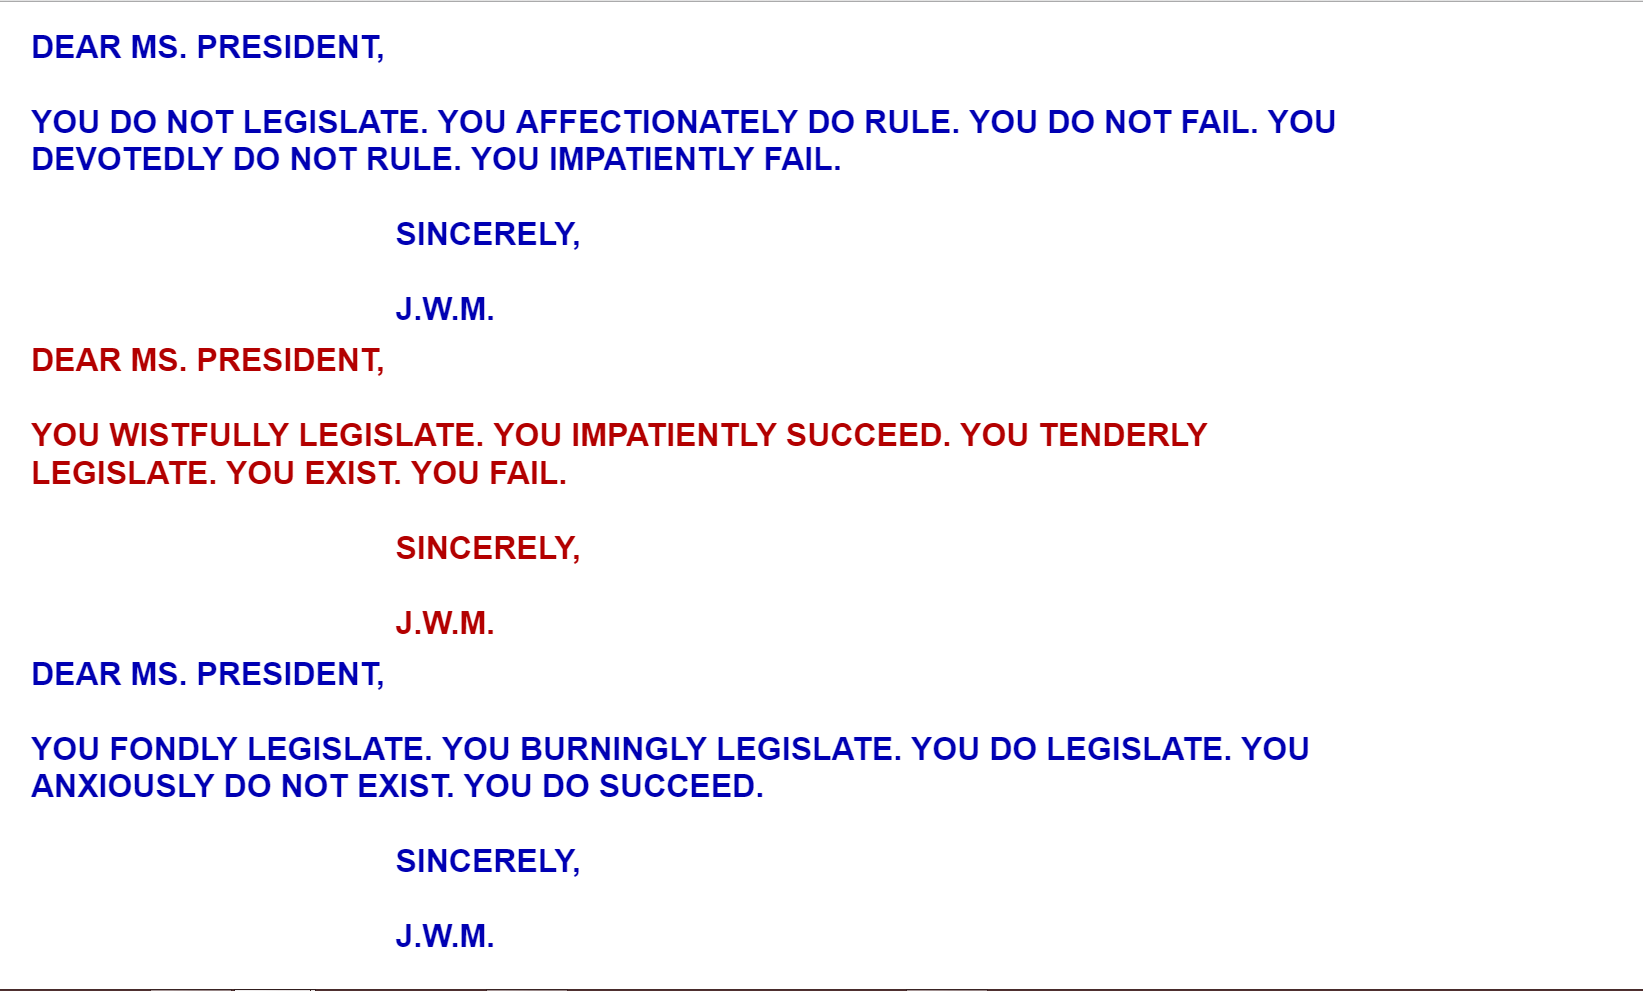
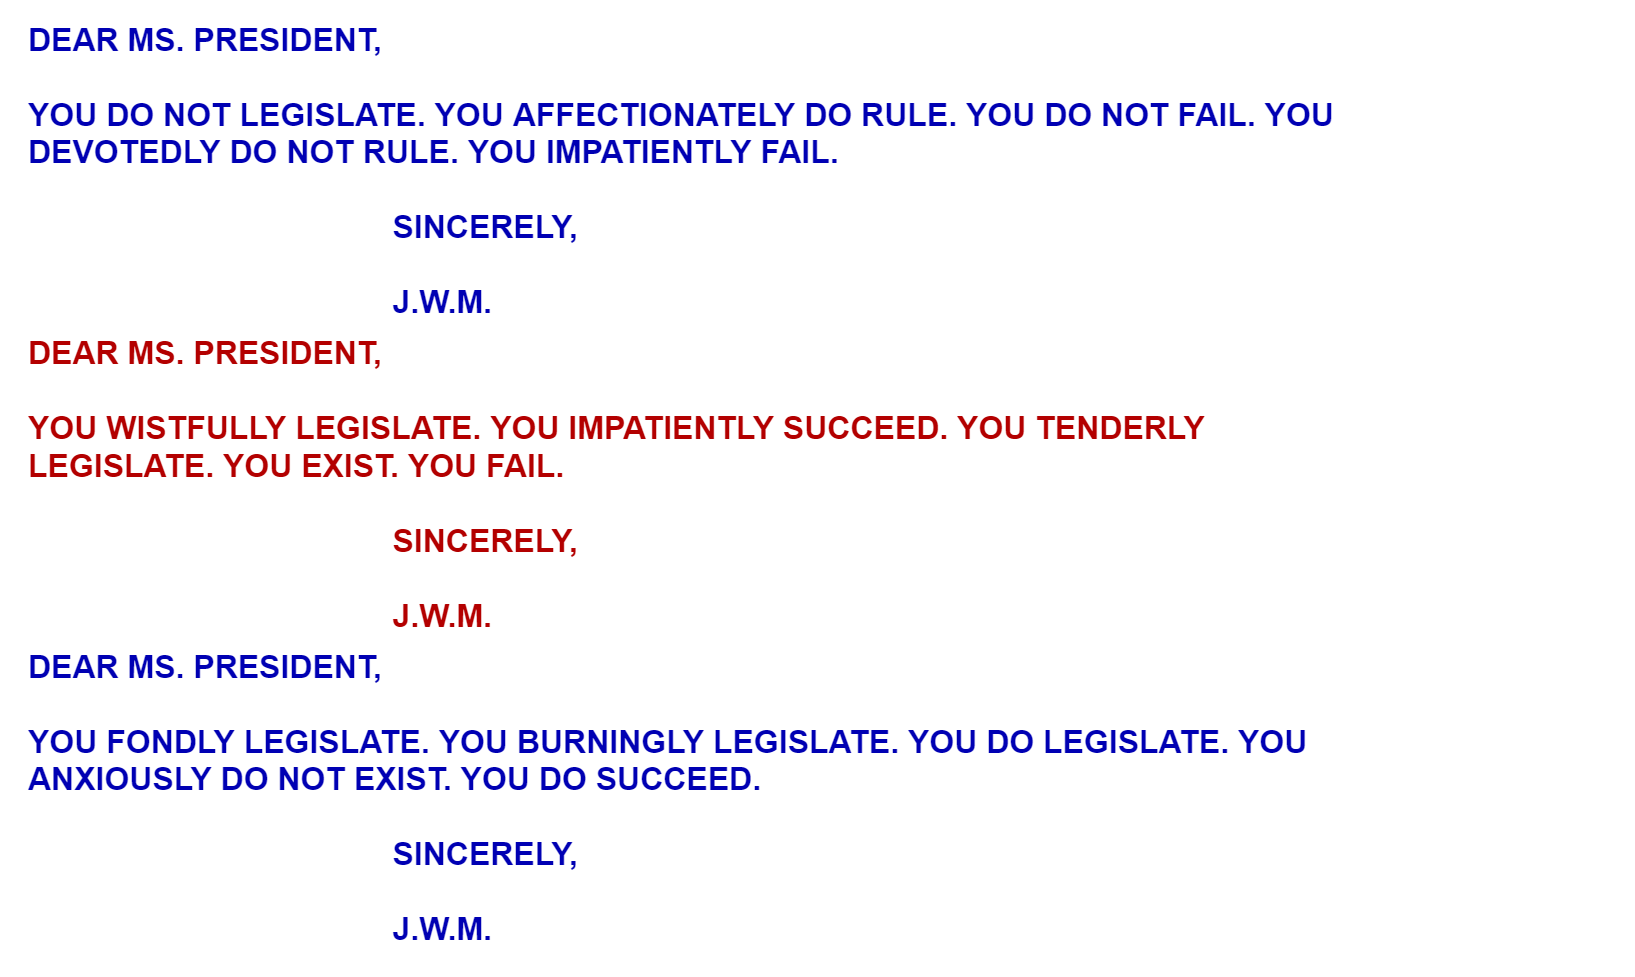
dear ms prez page done

diff --git a/files/msPresident.html b/files/msPresident.html
@@ -1,0 +1,167 @@
+
+<!DOCTYPE html PUBLIC "-//W3C//DTD XHTML 1.0 Strict//EN"
+    "http://www.w3.org/TR/xhtml1/DTD/xhtml1-strict.dtd">
+<html xmlns="http://www.w3.org/1999/xhtml" xml:lang="en" lang="en">
+<head>
+<meta http-equiv="content-type" content="text/html; charset=utf-8" />
+<!--
+Love Letters reimplementation
+copyright (c) 2014 Nick Montfort <nickm@nickm.com>
+based on a 1952 program by Christopher Strachey
+
+Permission to use, copy, modify, and/or distribute this software for any
+purpose with or without fee is hereby granted, provided that the above
+copyright notice and this permission notice appear in all copies.
+
+THE SOFTWARE IS PROVIDED "AS IS" AND THE AUTHOR DISCLAIMS ALL WARRANTIES
+WITH REGARD TO THIS SOFTWARE INCLUDING ALL IMPLIED WARRANTIES OF
+MERCHANTABILITY AND FITNESS. IN NO EVENT SHALL THE AUTHOR BE LIABLE FOR ANY
+SPECIAL, DIRECT, INDIRECT, OR CONSEQUENTIAL DAMAGES OR ANY DAMAGES
+WHATSOEVER RESULTING FROM LOSS OF USE, DATA OR PROFITS, WHETHER IN AN
+ACTION OF CONTRACT, NEGLIGENCE OR OTHER TORTIOUS ACTION, ARISING OUT OF OR
+IN CONNECTION WITH THE USE OR PERFORMANCE OF THIS SOFTWARE.
+
+Updated 10 March 2015 to correct the word lists. Sources are photographs
+of Christoper Stachey's notes in the Bodleian Library from J.R. Carpenter
+and table 14.1 in Noah Wardrip-Fruin's article "Digital Media Archaeology."
+-->
+<style type="text/css">
+/* <![CDATA[ */
+body {
+ background:#FFF;
+ color:#ccc;
+ margin:0 0 0 18pt;
+ font-family:Optima, sans-serif;
+ font-size:16pt;
+}
+
+a {
+ color:#117;
+ text-decoration:none;
+}
+
+#main {
+ padding-top:18px;
+ width:70%;
+}
+
+#main div {
+ font-weight:bold;
+ padding-bottom:9px;
+}
+
+/*#info {
+ top:0;
+ right:0;
+ bottom:0;
+ position:absolute;
+ height:100%;
+ width:25%;
+ color:#333;
+ background:#999;
+ margin-left:6px;
+ border-left:thin #000 solid;
+ border-bottom:thin #000 solid;
+ padding:9px;
+ font-size:80%
+}*/
+
+/* ]]> */
+</style>
+<script type="text/javascript">
+
+var t = 0,
+
+colors = ['#b30000', '#0000b3'],
+
+first = ['DEAR'],
+
+second = ['MS. PRESIDENT,'],
+
+nouns = ['YOU'],
+
+adverbs = ['AFFECTIONATELY', 'ANXIOUSLY', 'ARDENTLY', 'AVIDLY', 'BEAUTIFULLY', 'BREATHLESSLY', 'BURNINGLY', 'COVETOUSLY', 'CURIOUSLY', 'DEVOTEDLY', 'EAGERLY', 'FERVENTLY', 'FONDLY', 'IMPATIENTLY', 'KEENLY', 'LOVINGLY', 'PASSIONATELY', 'SEDUCTIVELY', 'TENDERLY', 'WINNINGLY', 'WISTFULLY'],
+
+actions = ['', 'DO NOT', 'DO'],
+
+verbs = ['EXIST', 'LEGISLATE', 'RULE', 'SUCCEED', 'FAIL'];
+
+function rand_range(maximum) {
+    "use strict";
+    return Math.floor(Math.random() * (maximum + 1));
+}
+
+function choose(array) {
+    "use strict";
+    return array[rand_range(array.length - 1)];
+}
+
+function maybe(words) {
+    "use strict";
+    if (Math.random() > 0.3) {
+        return ' ' + choose(words);
+    }
+    return '';
+}
+
+function longer() {
+    "use strict";
+    return choose(nouns) + maybe(adverbs) + ' ' + choose(actions) + ' ' + choose(verbs) + '. ';
+}
+
+function shorter() {
+    "use strict";
+    return choose(nouns) + ' ' + choose(actions) + ' ' + choose(verbs) + '. ';
+}
+
+function letter() {
+    "use strict";
+    var i, type, you_are = false, text = '';
+    text = text + choose(first) + ' ' + choose(second) + '<br /><br />';
+
+    for (i = 0; i < 5; i = i + 1) {
+        type = choose(['longer', 'shorter']);
+        if (type === 'longer') {
+            text = text + longer();
+        } else {
+            if (you_are) {
+                text = text.slice(0, -1) + shorter();
+            } else {
+                text = text + shorter();
+            }
+        }
+    }
+
+    text = text + '<br /><br />&nbsp;&nbsp;&nbsp;&nbsp;&nbsp;&nbsp;&nbsp;&nbsp;&nbsp;&nbsp;&nbsp;&nbsp;&nbsp;&nbsp;&nbsp;&nbsp;&nbsp;&nbsp;&nbsp;&nbsp;&nbsp;&nbsp;&nbsp;&nbsp;&nbsp;&nbsp;&nbsp;&nbsp;&nbsp;&nbsp;&nbsp;&nbsp;&nbsp;&nbsp;&nbsp;&nbsp;&nbsp;&nbsp;&nbsp;&nbsp;&nbsp;' + 'SINCERELY,' + '<br /><br />' + '&nbsp;&nbsp;&nbsp;&nbsp;&nbsp;&nbsp;&nbsp;&nbsp;&nbsp;&nbsp;&nbsp;&nbsp;&nbsp;&nbsp;&nbsp;&nbsp;&nbsp;&nbsp;&nbsp;&nbsp;&nbsp;&nbsp;&nbsp;&nbsp;&nbsp;&nbsp;&nbsp;&nbsp;&nbsp;&nbsp;&nbsp;&nbsp;&nbsp;&nbsp;&nbsp;&nbsp;&nbsp;&nbsp;&nbsp;&nbsp;&nbsp;J.W.M.';
+    return text;
+}
+
+function litany() {
+    "use strict";
+    var last, main = document.getElementById('main');
+    if (4 > t) {
+        t += 1;
+    } else {
+        main.removeChild(document.getElementById('main').firstChild);
+    }
+    last = document.createElement('div');
+    last.style.color = choose(colors);
+    last.innerHTML = letter();
+    main.appendChild(last);
+}
+
+function produce_litany() {
+    "use strict";
+    litany();
+    setInterval(litany, 5000);
+}
+
+</script>
+  <title>Dear Ms. President</title>
+</head>
+
+<body onload="produce_litany();">
+
+<div id="main"></div>
+</body>
+</html>

diff --git a/dearmspresident.html b/dearmspresident.html
@@ -1,0 +1,77 @@
+<!doctype html>
+<html>
+
+<head>
+  <link rel='shortcut icon' href='favicon.ico' type='image/x-icon'/ >
+  <title>Dear Ms. President</title>
+  <link href="css/main.css" rel="stylesheet" type = "text/css">
+  <link href="css/about.css" rel="stylesheet" type = "text/css">
+  <link href="css/projectpage.css" rel="stylesheet" type = "text/css">
+  <meta name="viewport" content="width=device-width, initial-scale=1.0">
+
+  <!-- Custom Fonts -->
+  <link rel="stylesheet" href="https://fonts.googleapis.com/icon?family=Material+Icons">
+  <link href="https://fonts.googleapis.com/css?family=Inconsolata" rel="stylesheet">
+  <link href="https://fonts.googleapis.com/css?family=Open+Sans" rel="stylesheet">
+
+  <!-- MDL JavaScript, jQuery -->
+  <link rel="stylesheet" href="https://code.getmdl.io/1.1.3/material.indigo-pink.min.css">
+  <script   src="https://code.jquery.com/jquery-3.1.0.min.js"   integrity="sha256-cCueBR6CsyA4/9szpPfrX3s49M9vUU5BgtiJj06wt/s="   
+  crossorigin="anonymous"></script>
+</head>
+
+<body>
+
+  <!-- Site Nav -->
+  <div class="mdl-layout mdl-js-layout mdl-layout--fixed-header">
+    <header class="mdl-layout__header mdl-layout__header--seamed">
+      <div class="mdl-layout__header-row">
+        <!-- Title -->
+        <span id="big-title" class="mdl-layout-title">jasmine mithani</span>
+        <span id="small-title" class="mdl-layout-title">jmithani</span>
+        <!-- Add spacer, to align navigation to the right -->
+        <div class="mdl-layout-spacer"></div>
+        <!-- Navigation. We hide it in small screens. -->
+        <nav class="mdl-navigation mdl-layout--large-screen-only">
+          <a class="mdl-navigation__link" href="">about</a>
+          <a class="mdl-navigation__link" href="">work</a>
+          <a class="mdl-navigation__link" href="">blog</a>
+        </nav>
+      </div>
+    </header>
+    <div class="mdl-layout__drawer">
+      <span class="mdl-layout-title">jasmine mithani</span>
+      <nav class="mdl-navigation">
+        <a class="mdl-navigation__link" href="">about</a>
+        <a class="mdl-navigation__link" href="">work</a>
+        <a class="mdl-navigation__link" href="">blog</a>
+      </nav>
+    </div>
+
+    <main class="mdl-layout__content">
+      <div class="page-content">
+        <img src="img/dearmspresident.png"></img>
+
+        <div class="about-text">
+          <h1>Dear Ms. President</h1>
+          <h2></h2>
+
+          <div class="title">> background</div>
+            <p>&quot;Dear Ms. President&quot; is a computational poem I composed during a workshop with <a href="http://nickm.com/">Nick Montfort</a> in 2015. It is a remix of <a href="http://nickm.com/memslam/love_letters.html">&quot;Love Letters&quot;</a> by Christopher Strachey (1952) and <a href="http://nickm.com/memslam/stochastic_texts.html">&quot;Stochasitc Texts&quot;</a> by Theo Lutz (1959). Both have been reimplemented for the modern web by Montfort.</p>
+
+            <p>It is viewable <a href="files/msPresident.html">here</a>.</p>
+
+            <p>The piece emerged as a result of anxieties felt when looking at a list of past US presidents and not seeing someone who looked like me. The letters are signed by me, but they are generated from a combination of my feelings, my perception of society's thoughts, and potential reactions if we were ever to have a female president.</p>
+
+            <p>Reflecting on this past work, it seems especially relevent as Hillary Clinton has officially been named the Democratic Party nominee for the next president of the United States.</p>
+
+            <p>Forking and remixing is encouraged; the work is hosted on <a href="https://github.com/jmithani/dear-ms-president">Github</a>.</p>
+
+        </div>
+      </div> <!-- page-content -->
+    </main>
+  </div>
+
+
+</body>
+</html>

diff --git a/index.html b/index.html
@@ -132,7 +132,7 @@
                 <div class="card-title"><span>visual design</span></div>
                 <div class="show-on-hover">
                   <div class="card-tags"><span>design / art</span></div>
-                  <div class="card-description"><span>Collection of artworks illustrating foundational design principles.</span></div>
+                  <div class="card-description"><span>Collection of artwork, typography, and sketches illustrating foundational design principles.</span></div>
                 </div> <!-- show on hover -->
               </div> <!-- card actions -->
             </div> <!-- demo card -->
